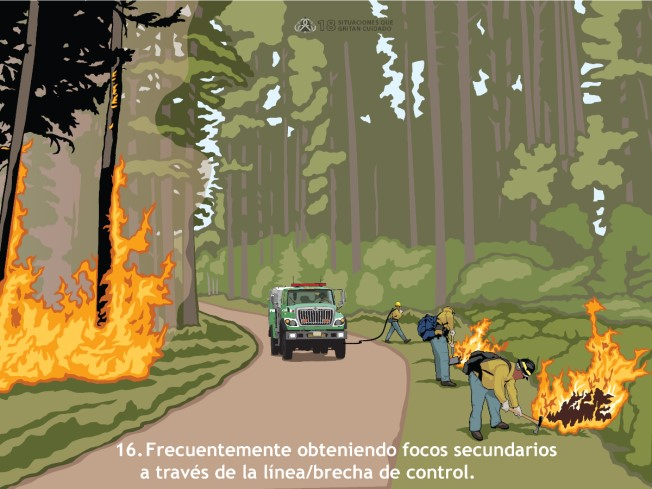
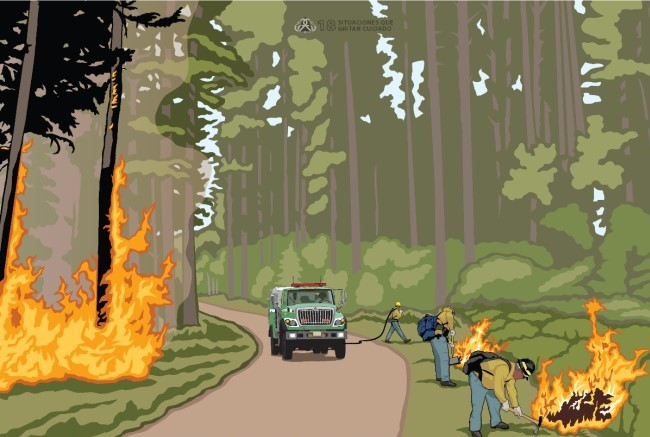
Imagenes y texto Constancia
-Se cambiaron recortaron imagenes del examen s-190
-Se agregaron indices numericos a las opciones de 4 preguntas, se cambio a incisos.
-Se cambió la validación de prueba de la mochila y carrera para que diga no aprobado o realizar prueba...

diff --git a/src/components/examenes/examen_s190/Data.jsx b/src/components/examenes/examen_s190/Data.jsx
@@ -356,59 +356,59 @@ const Data = [
     show: true,
     width: "512px",
     height: "512px",
-    is_number: true,
+    is_number: false,
     answers: [
       {
         id: 1,
-        nombre: "Punto de Origen",
+        nombre: "1) Punto de Origen",
         value: "a",
         correcta: false,
       },
       {
         id: 2,
-        nombre: "Frente principal o cabeza",
+        nombre: "2) Frente principal o cabeza",
         value: "b",
         correcta: false,
       },
       {
         id: 3,
-        nombre: "Flancos",
+        nombre: "3) Flancos",
         value: "c",
         correcta: false,
       },
       {
         id: 4,
-        nombre: "Talón o cola del incendio",
+        nombre: "4) Talón o cola del incendio",
         value: "d",
         correcta: false,
       },
       {
         id: 5,
-        nombre: "Perímetro del incendio",
+        nombre: "5) Perímetro del incendio",
         value: "e",
         correcta: false,
       },
       {
         id: 6,
-        nombre: "Dedo",
+        nombre: "6) Dedo",
         value: "f",
         correcta: false,
       },
       {
         id: 7,
-        nombre: "Bolsa",
+        nombre: "7) Bolsa",
         value: "g",
         correcta: false,
       },
       {
         id: 8,
-        nombre: "Isla",
+        nombre: "8) Isla",
         value: "h",
         correcta: true,
       },
       {
         id: 9,
-        nombre: "Focos Secundarios",
+        nombre: "9) Focos Secundarios",
         value: "i",
         correcta: false,
       },
@@ -422,59 +422,59 @@ const Data = [
     show: true,
     width: "512px",
     height: "512px",
-    is_number: true,
+    is_number: false,
     answers: [
       {
         id: 1,
-        nombre: "Punto de Origen",
+        nombre: "1) Punto de Origen",
         value: "a",
         correcta: false,
       },
       {
         id: 2,
-        nombre: "Frente principal o cabeza",
+        nombre: "2) Frente principal o cabeza",
         value: "b",
         correcta: false,
       },
       {
         id: 3,
-        nombre: "Flancos",
+        nombre: "3) Flancos",
         value: "c",
         correcta: false,
       },
       {
         id: 4,
-        nombre: "Talón o cola del incendio",
+        nombre: "4) Talón o cola del incendio",
         value: "d",
         correcta: false,
       },
       {
         id: 5,
-        nombre: "Perímetro del incendio",
+        nombre: "5) Perímetro del incendio",
         value: "e",
         correcta: false,
       },
       {
         id: 6,
-        nombre: "Dedo",
+        nombre: "6) Dedo",
         value: "f",
         correcta: true,
       },
       {
         id: 7,
-        nombre: "Bolsa",
+        nombre: "7) Bolsa",
         value: "g",
         correcta: false,
       },
       {
         id: 8,
-        nombre: "Isla",
+        nombre: "8) Isla",
         value: "h",
         correcta: false,
       },
       {
         id: 9,
-        nombre: "Focos Secundarios",
+        nombre: "9) Focos Secundarios",
         value: "i",
         correcta: false,
       },
@@ -488,59 +488,59 @@ const Data = [
     show: true,
     width: "512px",
     height: "512px",
-    is_number: true,
+    is_number: false,
     answers: [
       {
         id: 1,
-        nombre: "Punto de Origen",
+        nombre: "1) Punto de Origen",
         value: "a",
         correcta: false,
       },
       {
         id: 2,
-        nombre: "Frente principal o cabeza",
+        nombre: "2) Frente principal o cabeza",
         value: "b",
         correcta: false,
       },
       {
         id: 3,
-        nombre: "Flancos",
+        nombre: "3) Flancos",
         value: "c",
         correcta: false,
       },
       {
         id: 4,
-        nombre: "Talón o cola del incendio",
+        nombre: "4) Talón o cola del incendio",
         value: "d",
         correcta: false,
       },
       {
         id: 5,
-        nombre: "Perímetro del incendio",
+        nombre: "5) Perímetro del incendio",
         value: "e",
         correcta: false,
       },
       {
         id: 6,
-        nombre: "Dedo",
+        nombre: "6) Dedo",
         value: "f",
         correcta: false,
       },
       {
         id: 7,
-        nombre: "Bolsa",
+        nombre: "7) Bolsa",
         value: "g",
         correcta: true,
       },
       {
         id: 8,
-        nombre: "Isla",
+        nombre: "8) Isla",
         value: "h",
         correcta: false,
       },
       {
         id: 9,
-        nombre: "Focos Secundarios",
+        nombre: "9) Focos Secundarios",
         value: "i",
         correcta: false,
       },
@@ -554,59 +554,59 @@ const Data = [
     show: true,
     width: "512px",
     height: "512px",
-    is_number: true,
+    is_number: false,
     answers: [
       {
         id: 1,
-        nombre: "Punto de Origen",
+        nombre: "1) Punto de Origen",
         value: "a",
         correcta: false,
       },
       {
         id: 2,
-        nombre: "Frente principal o cabeza",
+        nombre: "2) Frente principal o cabeza",
         value: "b",
         correcta: false,
       },
       {
         id: 3,
-        nombre: "Flancos",
+        nombre: "3) Flancos",
         value: "c",
         correcta: false,
       },
       {
         id: 4,
-        nombre: "Talón o cola del incendio",
+        nombre: "4) Talón o cola del incendio",
         value: "d",
         correcta: false,
       },
       {
         id: 5,
-        nombre: "Perímetro del incendio",
+        nombre: "5) Perímetro del incendio",
         value: "e",
         correcta: false,
       },
       {
         id: 6,
-        nombre: "Dedo",
+        nombre: "6) Dedo",
         value: "f",
         correcta: false,
       },
       {
         id: 7,
-        nombre: "Bolsa",
+        nombre: "7) Bolsa",
         value: "g",
         correcta: false,
       },
       {
         id: 8,
-        nombre: "Isla",
+        nombre: "8) Isla",
         value: "h",
         correcta: false,
       },
       {
         id: 9,
-        nombre: "Focos Secundarios",
+        nombre: "9) Focos Secundarios",
         value: "i",
         correcta: true,
       },

diff --git a/src/components/captura/PDF.jsx b/src/components/captura/PDF.jsx
@@ -334,14 +334,24 @@ const PDF = (props) => {
               {sections.liderazgo ? "Aprobado" : "No Aprobado"}
             </Text>
             <Text
-              style={[styles.RequisitosEspecial]}
+              style={[
+                styles.RequisitosEspecial,
+                sections.gps ? aprobadoColor : reprobadoColor,
+              ]}
             >
-              {'Realizar la prueba en la Promotoria de su Entidad'}
+              {sections.gps
+                ? "Realizar la prueba en la Promotoria de su Entidad"
+                : "No Aprobado"}
             </Text>
             <Text
-              style={[styles.RequisitosEspecial]}
+              style={[
+                styles.RequisitosEspecial,
+                sections.gps ? aprobadoColor : reprobadoColor,
+              ]}
             >
-              {'Realizar la prueba en la Promotoria de su Entidad'}
+              {sections.gps
+                ? "Realizar la prueba en la Promotoria de su Entidad"
+                : "No Aprobado"}
             </Text>
             <Text
               style={[
